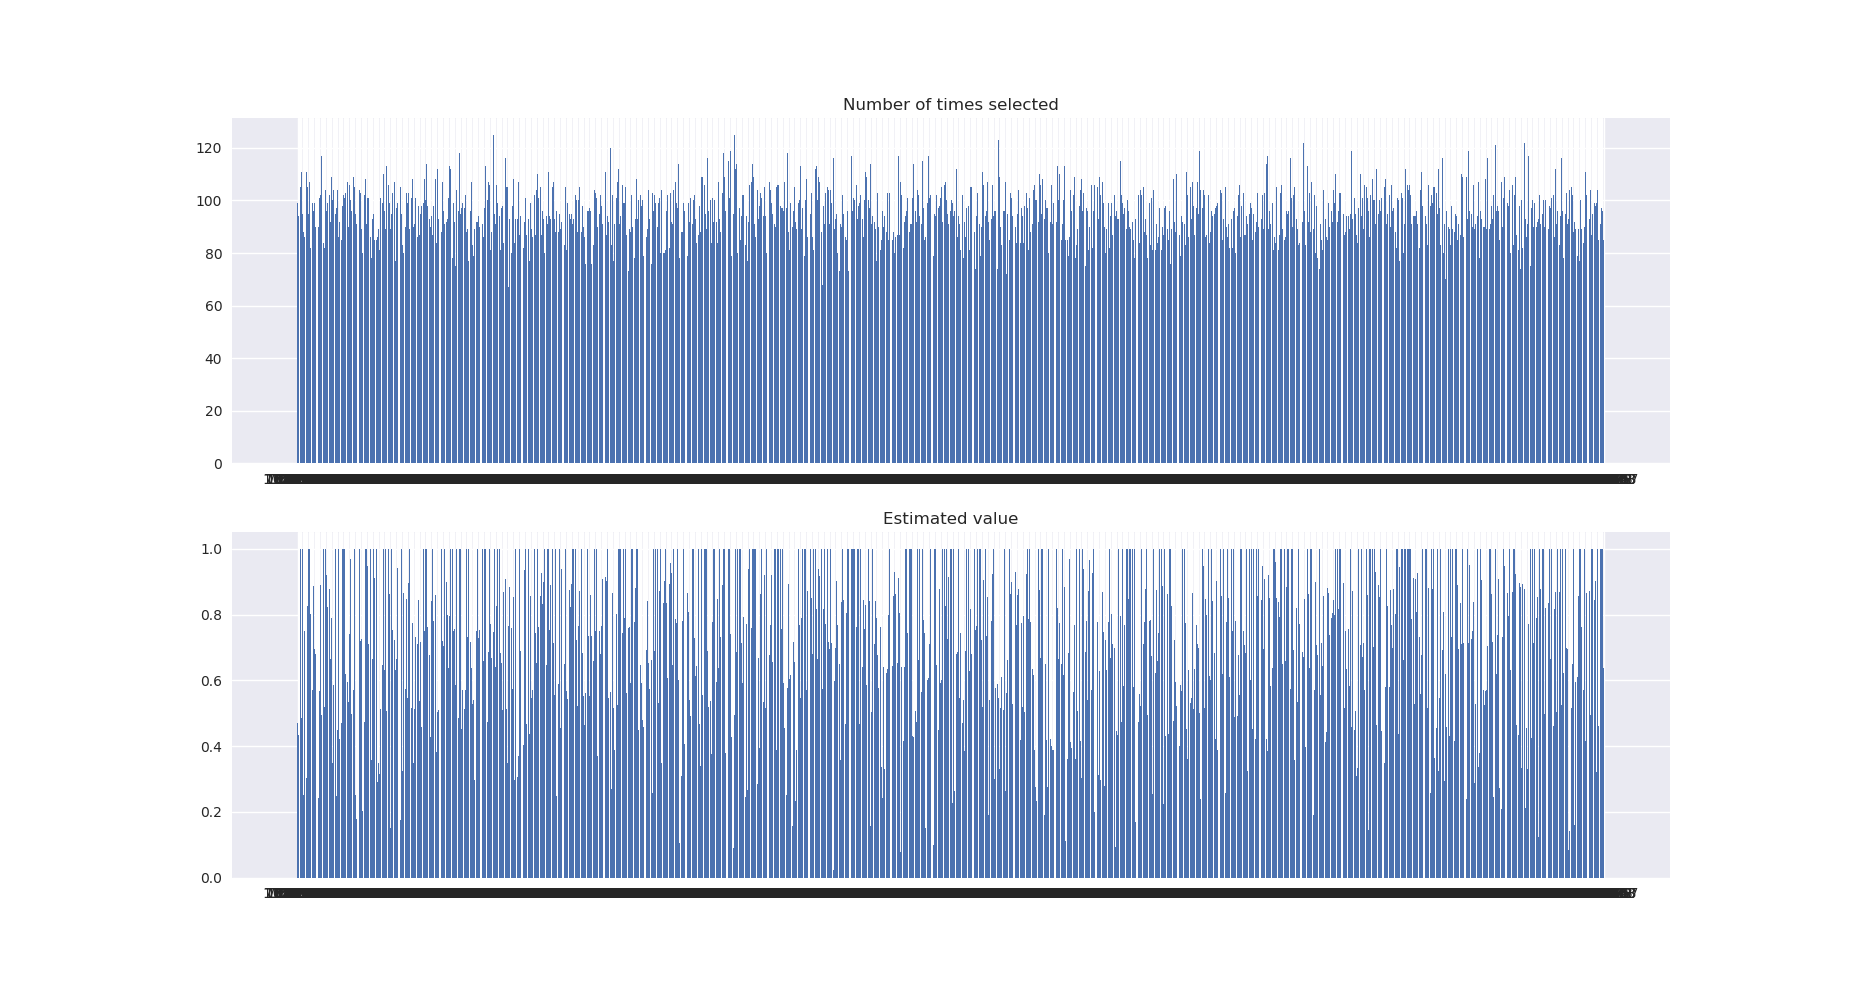
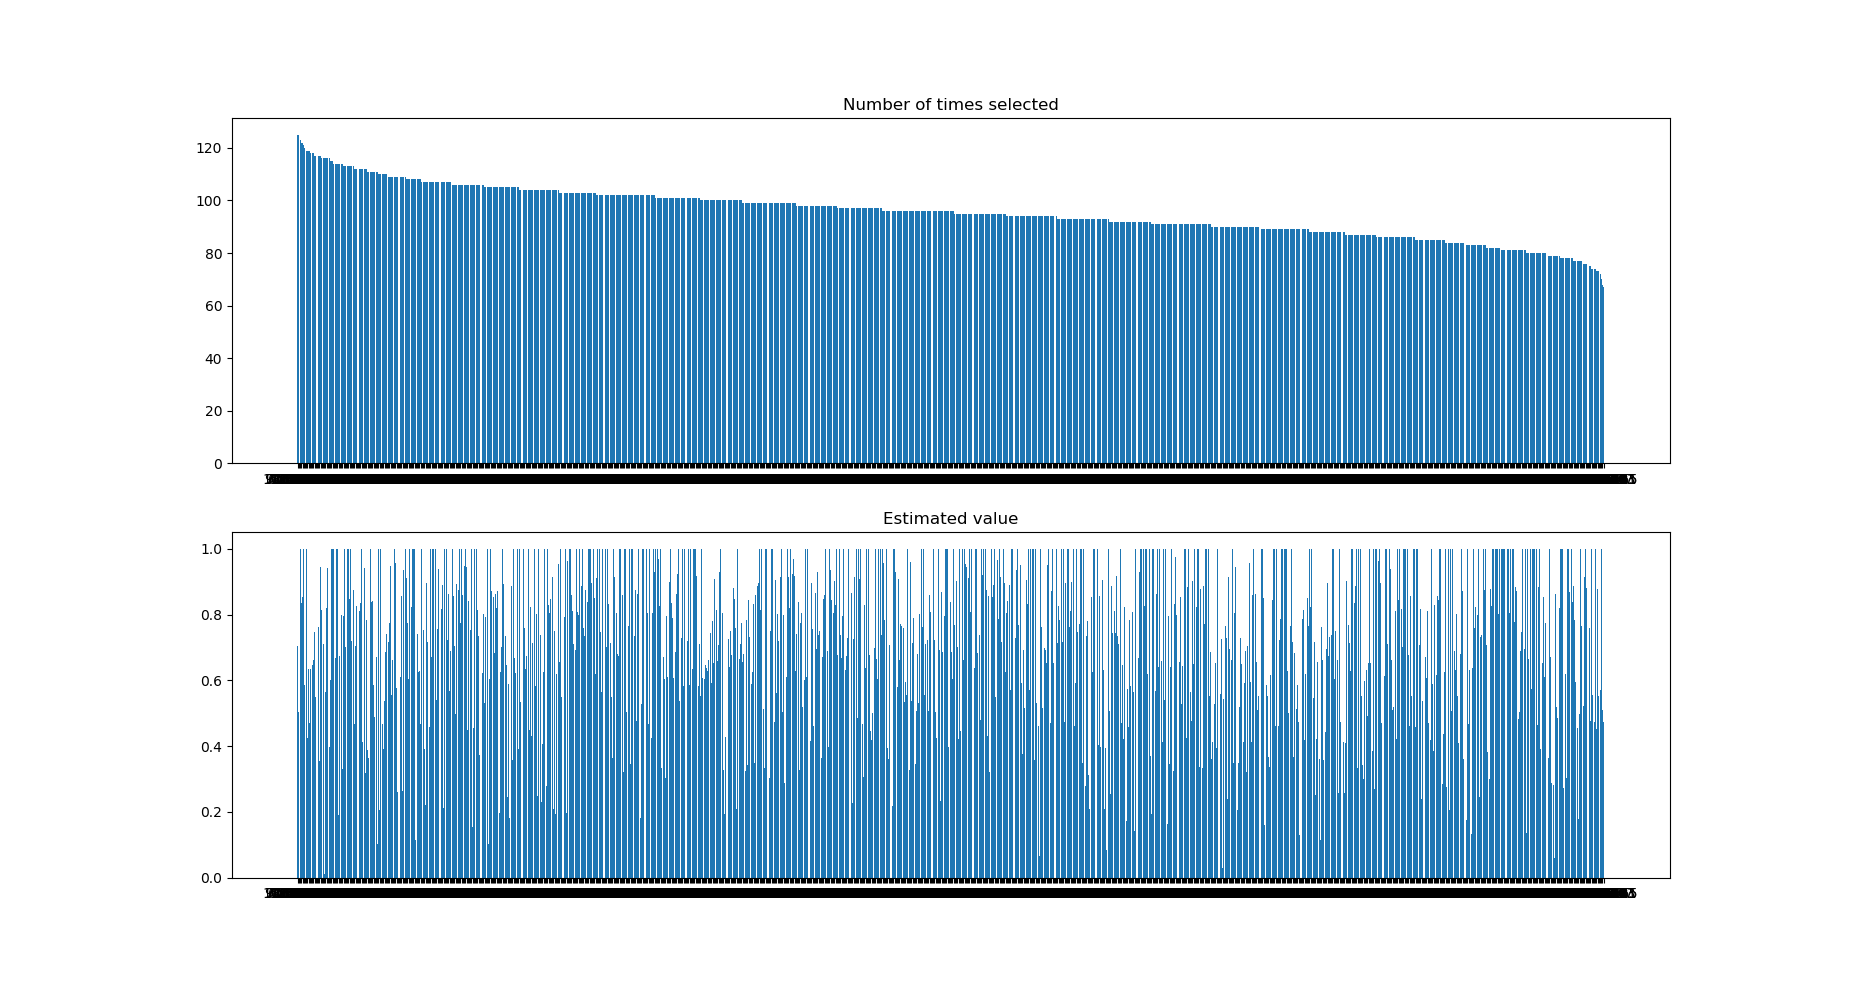
Done hist and plot.

diff --git a/src/bandits.py b/src/bandits.py
@@ -10,9 +10,13 @@ class Bandit():
     def __init__(self, splitter, criteria="mean"):
         splitter = splitter
         self.actions = {item: {"count": 0, "value": 0} for item in splitter.item_set}
-        self.max_item = 0
+        self.max_item = random.sample(splitter.item_set, 1)[0]
         self.max_item_value = 0
+        len_test_ini = splitter.test_len
+        self.cummulative_recall = [0]
+        recall = 0
 
+        self.epoch = 0
         while splitter.test_set:
             for user in splitter.user_set:
                 if user in splitter.test_set.keys():
@@ -42,29 +46,30 @@ class Bandit():
 
                             # Remove item from the test_set and add it to the train_set
                             reward = splitter.test_set[user].pop(item)
+                            recall += reward
                             if not splitter.test_set[user]:
                                 splitter.test_set.pop(user)
                             try:
                                 splitter.train_set[user][item] = reward
                             except KeyError:
                                 splitter.train_set[user] = {item: reward}
+                            self.epoch += 1
+                            self.cummulative_recall.append(recall/len_test_ini)
                             break
 
     def select_item(self, splitter):
         pass
 
-    def plot_hist(self):
-        sns.set()
-        N = len(self.actions.keys())
-        X = list(self.actions.keys())
-        Y1 = [self.actions[action]["count"] for action in self.actions.keys()]
-        Y2 = [self.actions[action]["value"] for action in self.actions.keys()]
-        fig, (f1, f2) = plt.subplots(2, 1)
-        f1.bar(range(N), Y1, tick_label = X)
-        f1.set_title("Number of times selected")
-        f2.bar(range(N), Y2, tick_label = X)
-        f2.set_title("Estimated value")
-        plt.show()
+    def output_to_file(self, filepath, filepath_2):
+        with open(filepath, 'w') as output:
+            output.write("Total epochs: {0}\n".format(self.epoch))
+            output.write("Item\tTimes selected\tEstimated value\n")
+            for action, item in sorted(self.actions.items(), key=lambda item: item[1]["count"], reverse=True):
+                output.write("{0}\t{1}\t{2}\n".format(action, item["count"], item["value"]))
+        with open(filepath_2, 'w') as output:
+            for i in range(len(self.cummulative_recall)):
+                output.write("{0}\t{1}\n".format(i, self.cummulative_recall[i]))
+
 
 class EpsilonGreedyBandit(Bandit):
     """
@@ -76,7 +81,7 @@ class EpsilonGreedyBandit(Bandit):
 
     def select_item(self, splitter):
         if np.random.binomial(1, 1-self.epsilon):
-            # Eploitation
+            # Exploitation
             item = self.max_item
         else:
             # Exploration
@@ -84,9 +89,59 @@ class EpsilonGreedyBandit(Bandit):
         return item
 
 
+def plot_results_hist(results_file, num_items = 0):
+    with open(results_file, 'r') as infile:
+        infile.readline() # Total epoch
+        infile.readline() # Header
+        X = []
+        Y1 = []
+        Y2= []
+        if num_items:
+            for _ in range(num_items):
+                line = infile.readline().strip('\n').split('\t')
+                X.append(int(line[0]))
+                Y1.append(int(line[1]))
+                Y2.append(float(line[2]))
+        else:
+            for line in infile:
+                li = line.strip('\n').split('\t')
+                X.append(int(li[0]))
+                Y1.append(int(li[1]))
+                Y2.append(float(li[2]))
+
+        fig, (fig_1, fig_2) = plt.subplots(2, 1)
+        fig_1.bar(range(len(X)), Y1, tick_label = X)
+        fig_1.set_title("Number of times selected")
+        fig_2.bar(range(len(X)), Y2, tick_label = X)
+        fig_2.set_title("Estimated value")
+        fig.savefig(results_file+'.png')
+        plt.close(fig)
+
+def plot_results_graph(results_file, eps):
+    with open(results_file) as infile:
+        X = []
+        Y = []
+        for line in infile:
+            li = line.strip('\n').split('\t')
+            X.append(int(li[0]))
+            Y.append(float(li[1]))
+
+        plt.plot(X, Y, label=eps)
+        plt.xlabel("Epoch")
+        plt.ylabel("Cummulative recall")
+
 if __name__=="__main__":
     from splitter import Splitter
 
-    spl = Splitter("../data/ratings_binary.txt", " ")
-    bandit = EpsilonGreedyBandit(0.1, spl)
-    bandit.plot_hist()
+    fig = plt.figure()
+    for eps in [1, 0.5,0.1]:
+        spl = Splitter("../data/ratings_binary.txt", " ")
+        bandit = EpsilonGreedyBandit(0.9, spl)
+        bandit.output_to_file("../results/epsilon{0}_greedy_bandit.txt".format(eps), "../results/bandit_recall.txt")
+
+        plot_results_hist("../results/epsilon{0}_greedy_bandit.txt".format(eps), 10)
+        plot_results_graph("../results/bandit_recall.txt", eps)
+
+    plt.legend()
+    plt.savefig("EpsilonGreedy.png")
+    plt.show()
